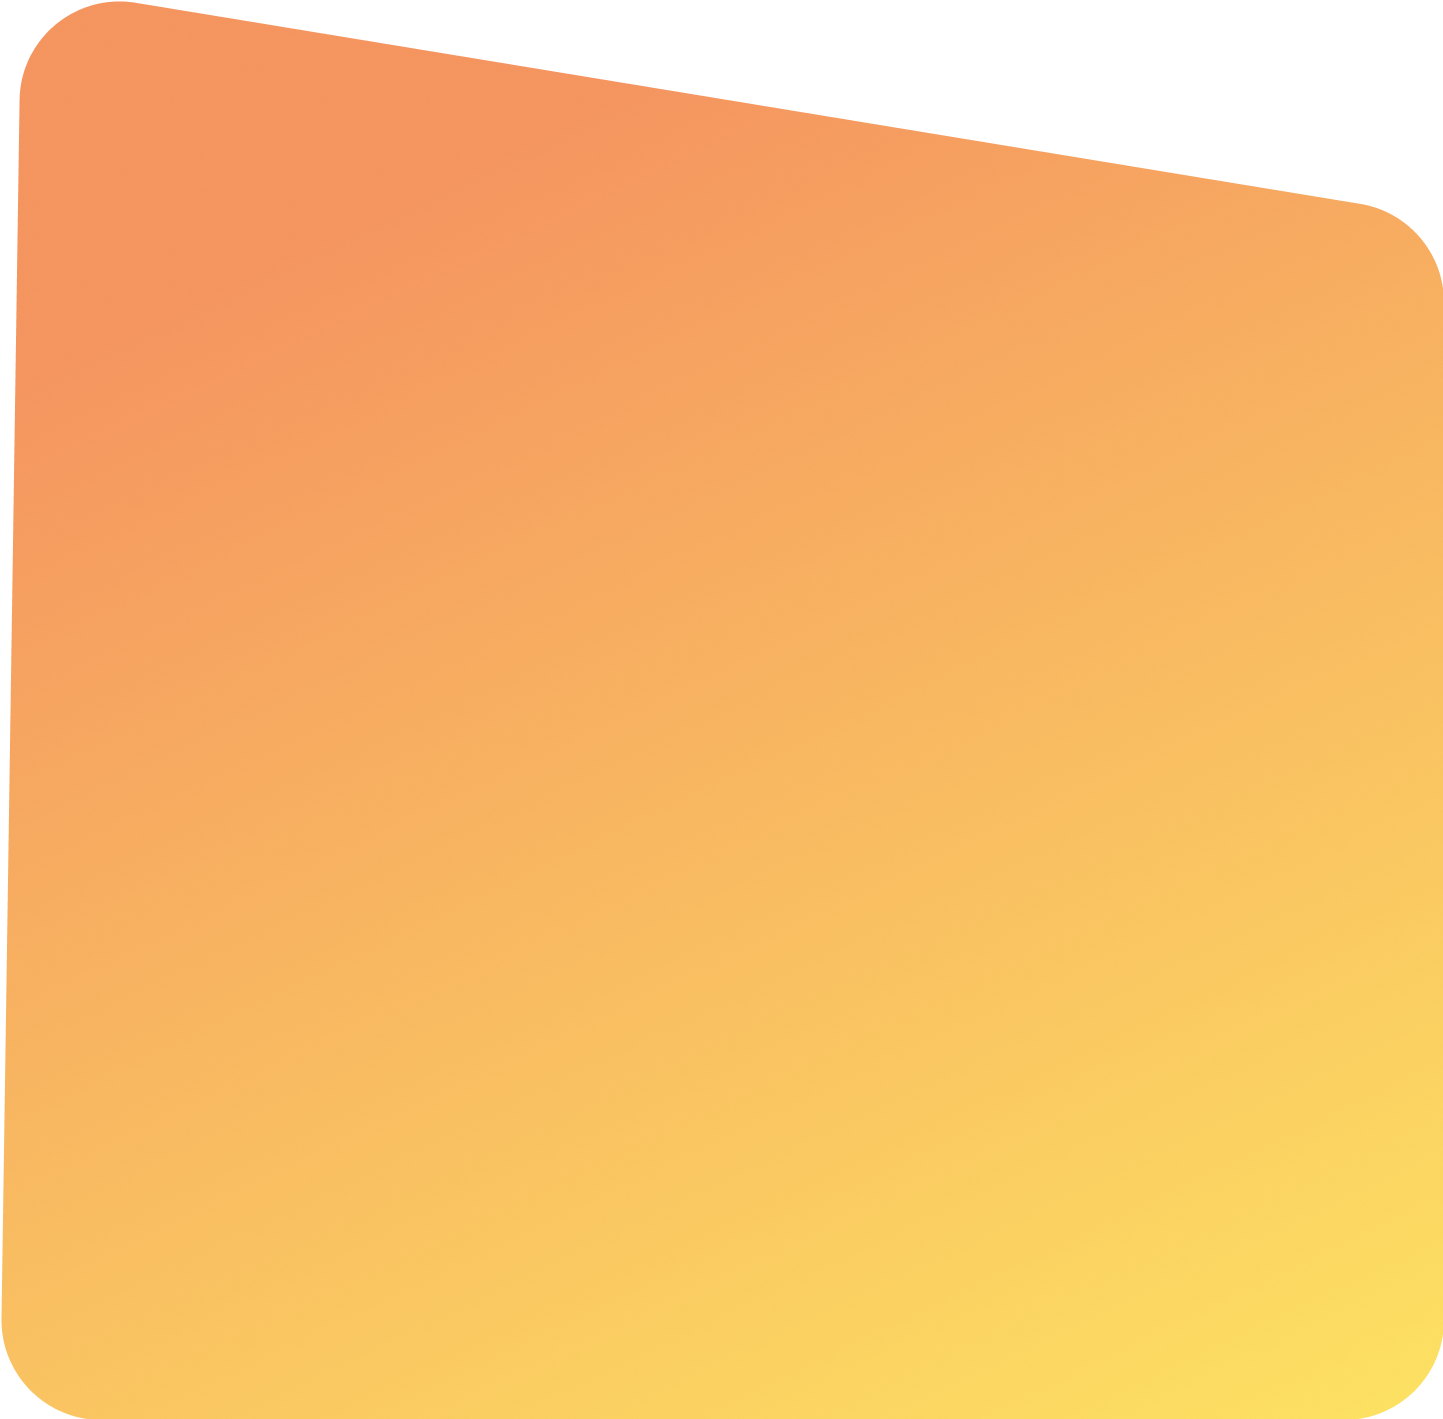
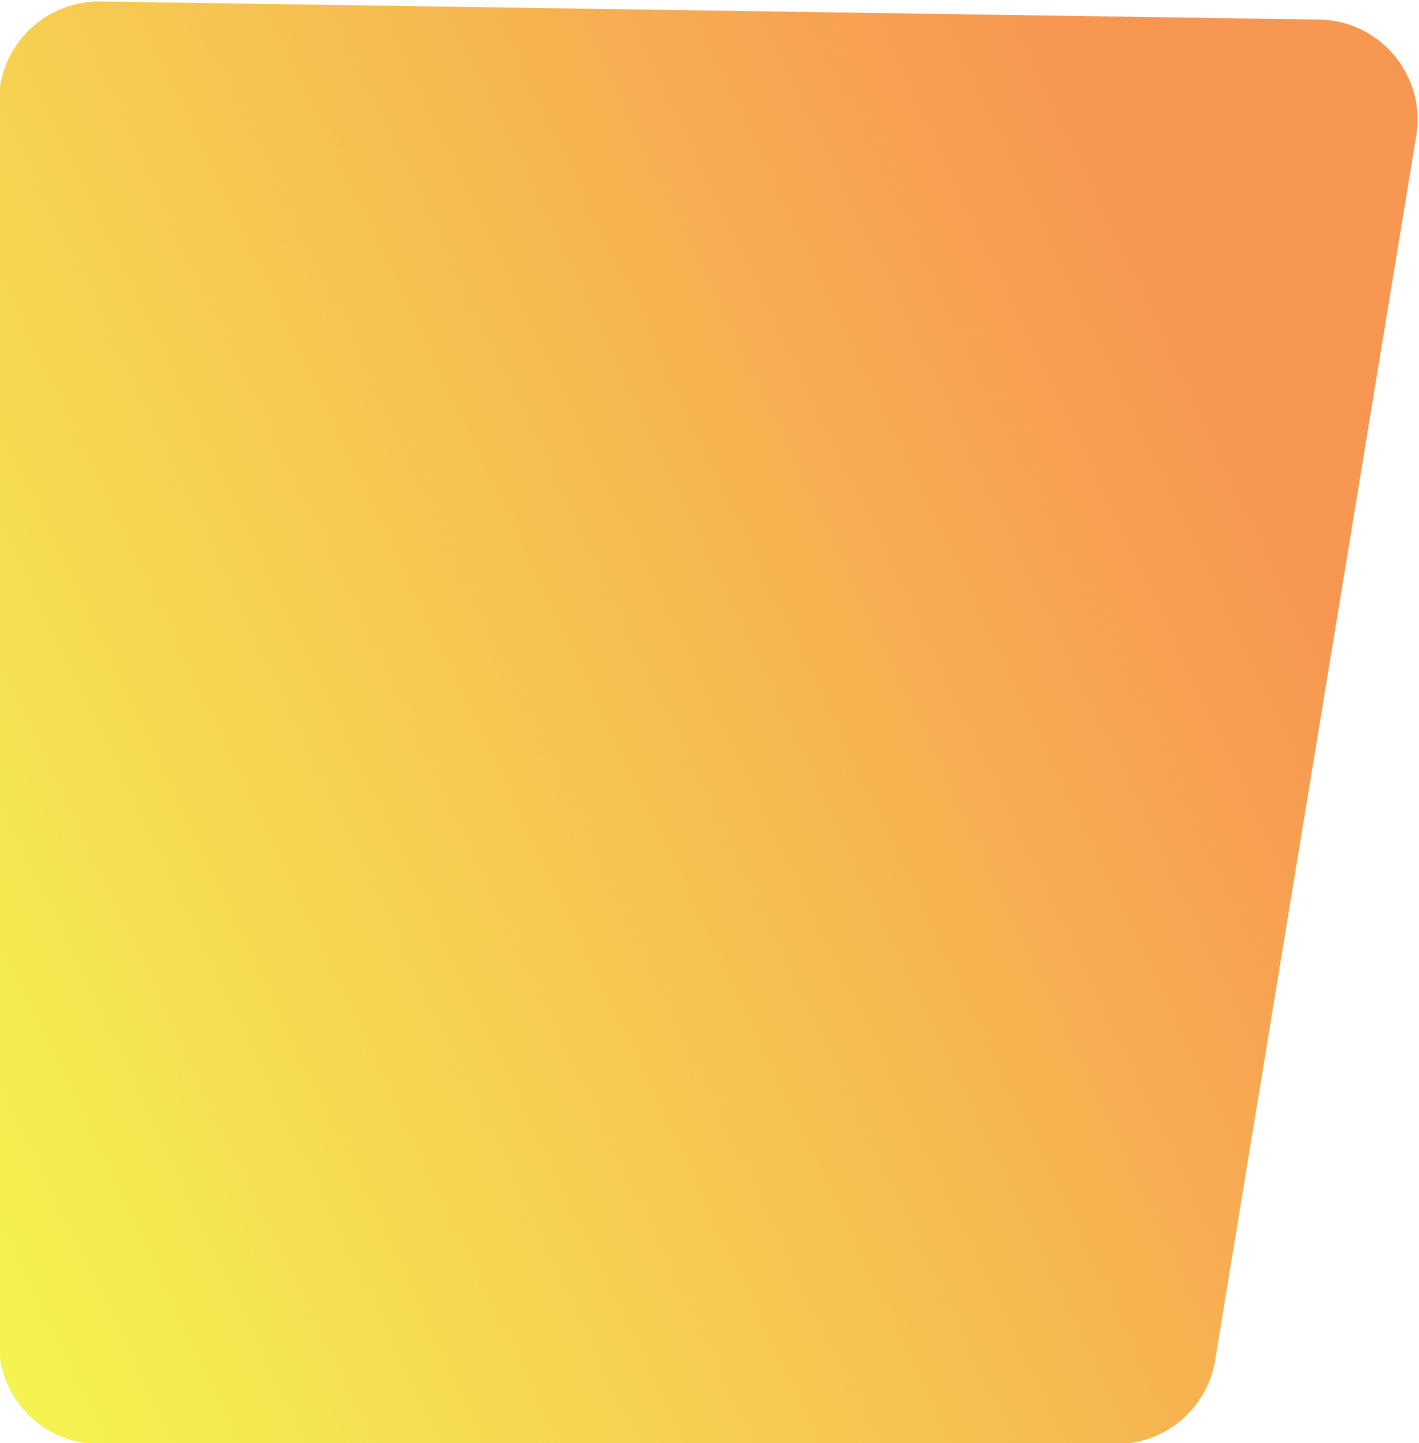
bg images adde last time

diff --git a/style.css b/style.css
@@ -36,6 +36,10 @@ p{
     flex-flow: row wrap;
     justify-content: space-between;
     align-items:flex-end;
+    background-image: url("images/shapes/shape-1.png");
+    background-position: -10rem -10rem;
+    background-repeat: no-repeat;
+    background-size: 20rem;
 }
 .half-width{
     flex: 0 0 45%;
@@ -64,6 +68,10 @@ p{
     display: block;
     width: 80%;
     margin-left: 2rem;
+    background-image: url("images/shapes/shape-8.png");
+    background-position: 50% 0;
+    background-repeat: no-repeat;
+    background-size: 20rem;
 }
 
 
@@ -74,6 +82,10 @@ p{
 .mission-card-area{
     padding-top: 4rem;
     padding-bottom: 2rem;
+    background-image: url("images/shapes/shape-1.png");
+    background-repeat: no-repeat;
+    background-position: 130% -5%;
+    background-size: 26rem;
 }
 .mission-card-area h2{
     font-size: 2.7em;
@@ -131,7 +143,18 @@ p{
 .flex-text{
     flex: 0 0 58%;
 }
-
+.bg-left{
+    background-image: url("images/shapes/shape-6.png");
+    background-repeat: no-repeat;
+    background-position: 0 50%;
+    background-size: 20rem;
+}
+.bg-right{
+    background-image: url("images/shapes/shape-6.png");
+    background-repeat: no-repeat;
+    background-position: 100% 50%;
+    background-size: 20rem;
+}
 .image-documentation>div>img{
     width: 100%;
 }
@@ -154,6 +177,10 @@ p{
 /* my creative idea section */
 .mern{
     margin: 5rem 0 3rem;
+    background-image: url("images/shapes/shape-3.png");
+    background-size: contain;
+    background-repeat: no-repeat;
+    background-position: -40vw 50%;
 }
 .mern>h2{
     text-align: center;

diff --git a/index.html b/index.html
@@ -49,7 +49,7 @@
         </section>
     </section>
     <!-- Develop without limits (1 image left + 1 div conatining text right) section -->
-    <section class="image-documentation">
+    <section class="image-documentation bg-left">
         <div class="flex-image">
             <img src="images/pictures/coding.png" alt="">
         </div>
@@ -61,7 +61,7 @@
         </div>
     </section>
     <!-- Know our Global community (1 div conatining text left + 1 image right) section -->
-    <section class="image-documentation"> 
+    <section class="image-documentation bg-right"> 
         <div class="flex-text">
             <h4>Know our</h4>
             <h3>Global Community</h3>
